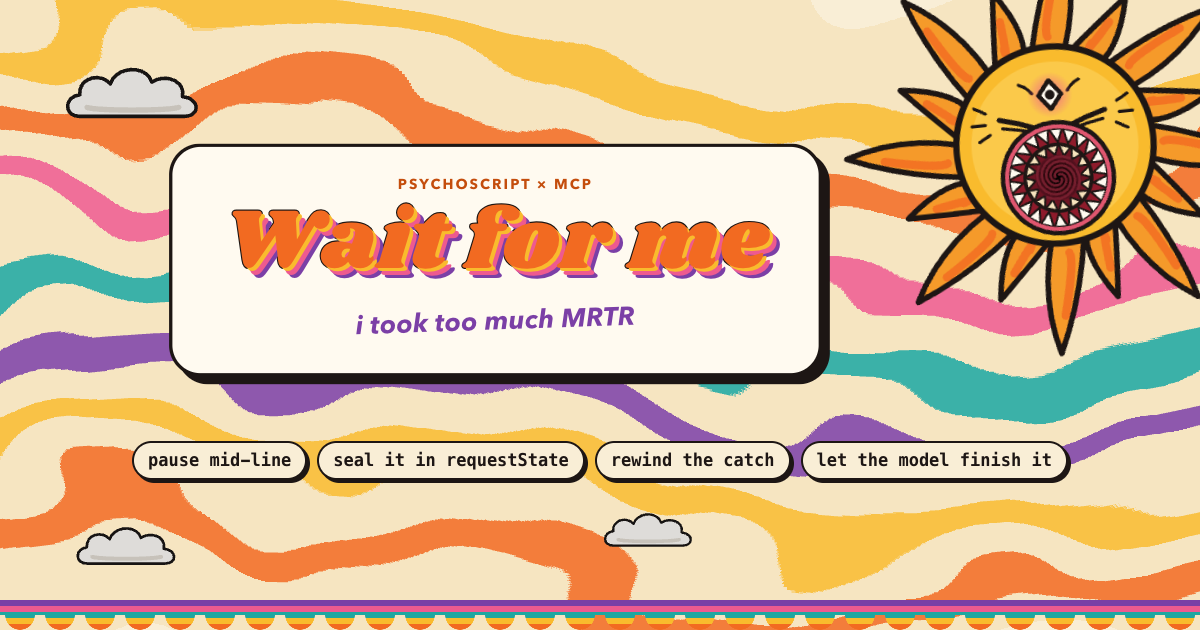
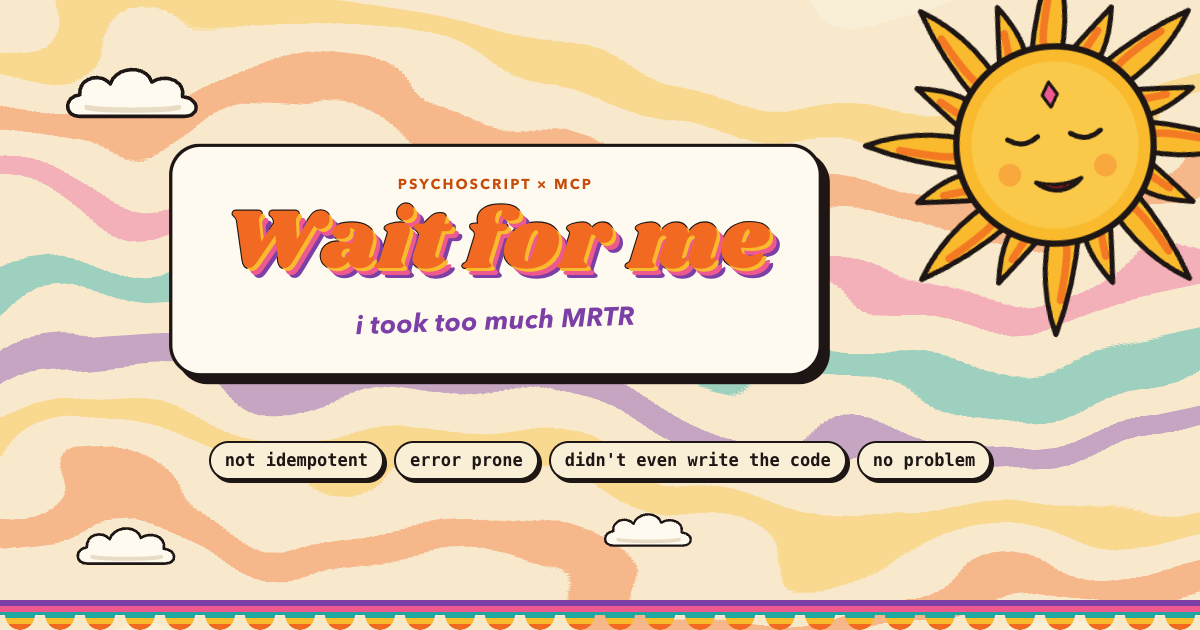
Preview card: happy sun, new pills

diff --git a/site/index.html b/site/index.html
@@ -19,7 +19,7 @@
     <meta property="og:image" content="https://vibdev.github.io/wait-for-me/art/og.png" />
     <meta property="og:image:width" content="1200" />
     <meta property="og:image:height" content="630" />
-    <meta property="og:image:alt" content="A screaming psychedelic sun next to the title Wait for me: pause mid-line, seal it in requestState, rewind the catch, let the model finish it." />
+    <meta property="og:image:alt" content="A blissed-out psychedelic sun next to the title Wait for me: not idempotent, error prone, didn't even write the code, no problem." />
     <meta name="twitter:card" content="summary_large_image" />
     <link rel="icon" href="art/favicon.svg" type="image/svg+xml" />
     <link rel="preconnect" href="https://fonts.googleapis.com" />
